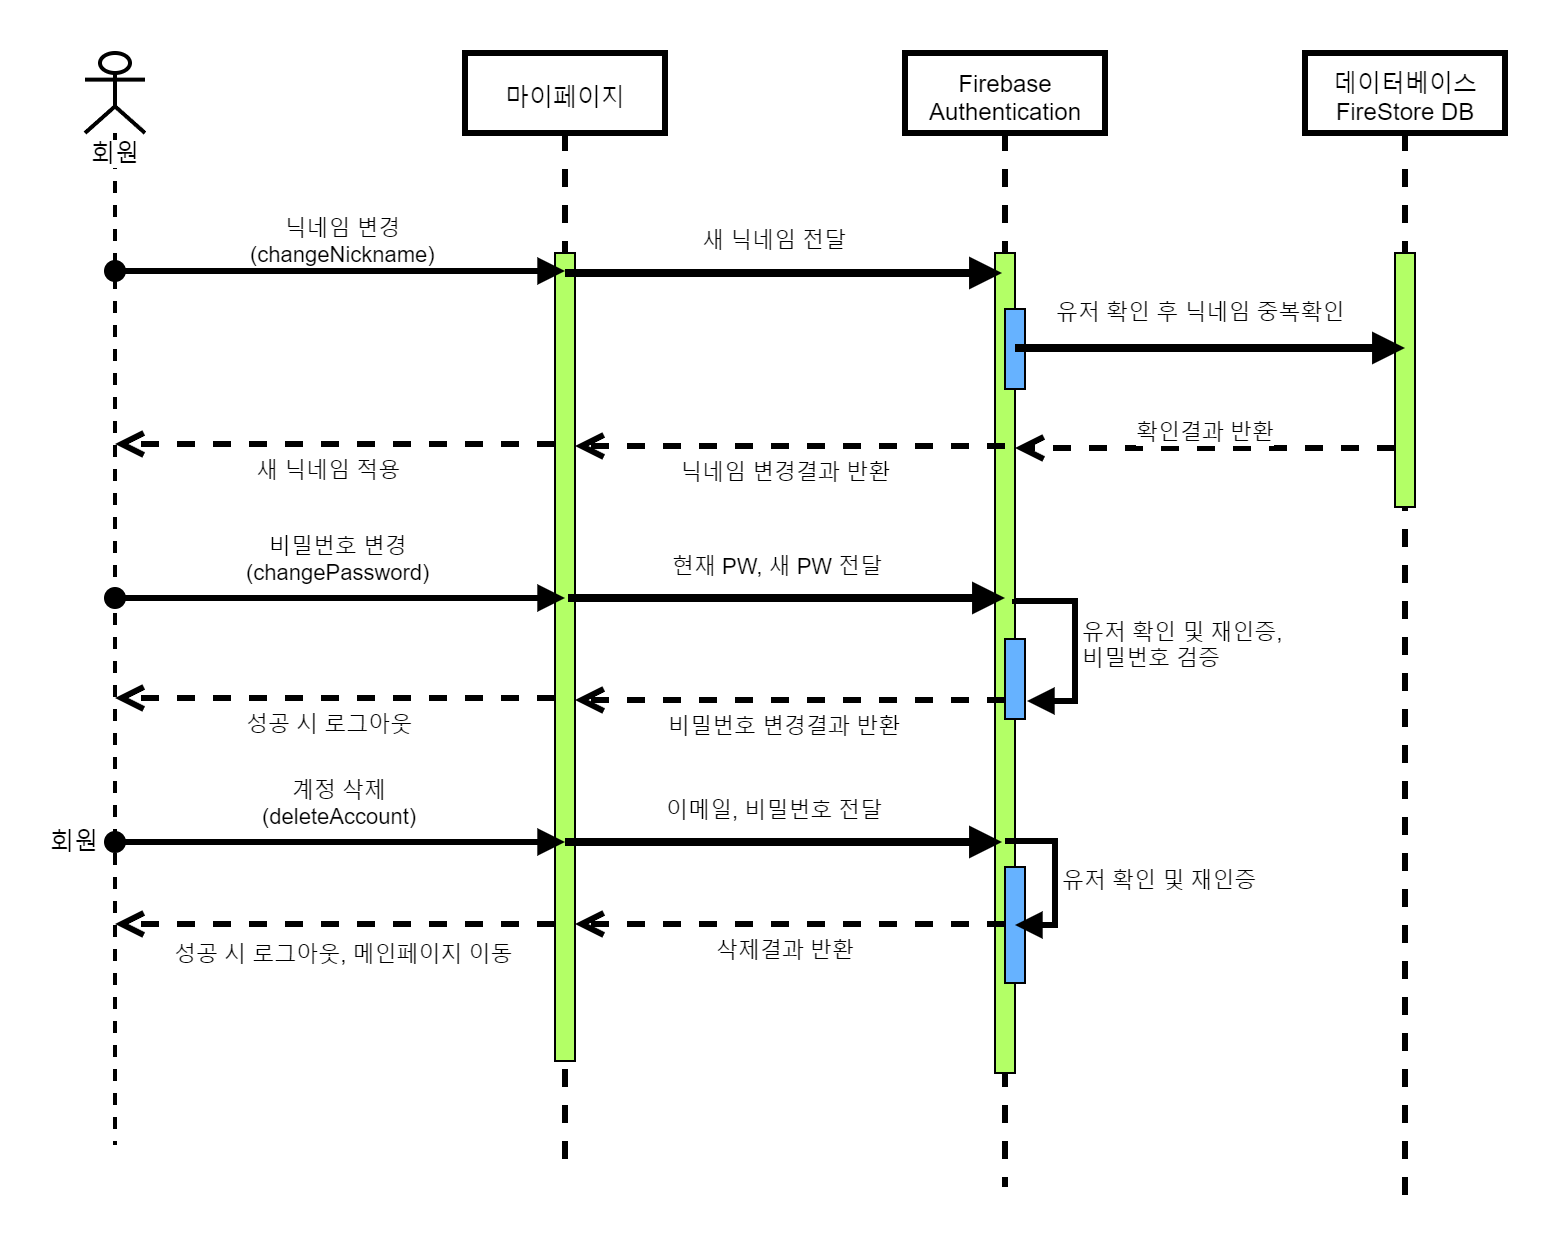
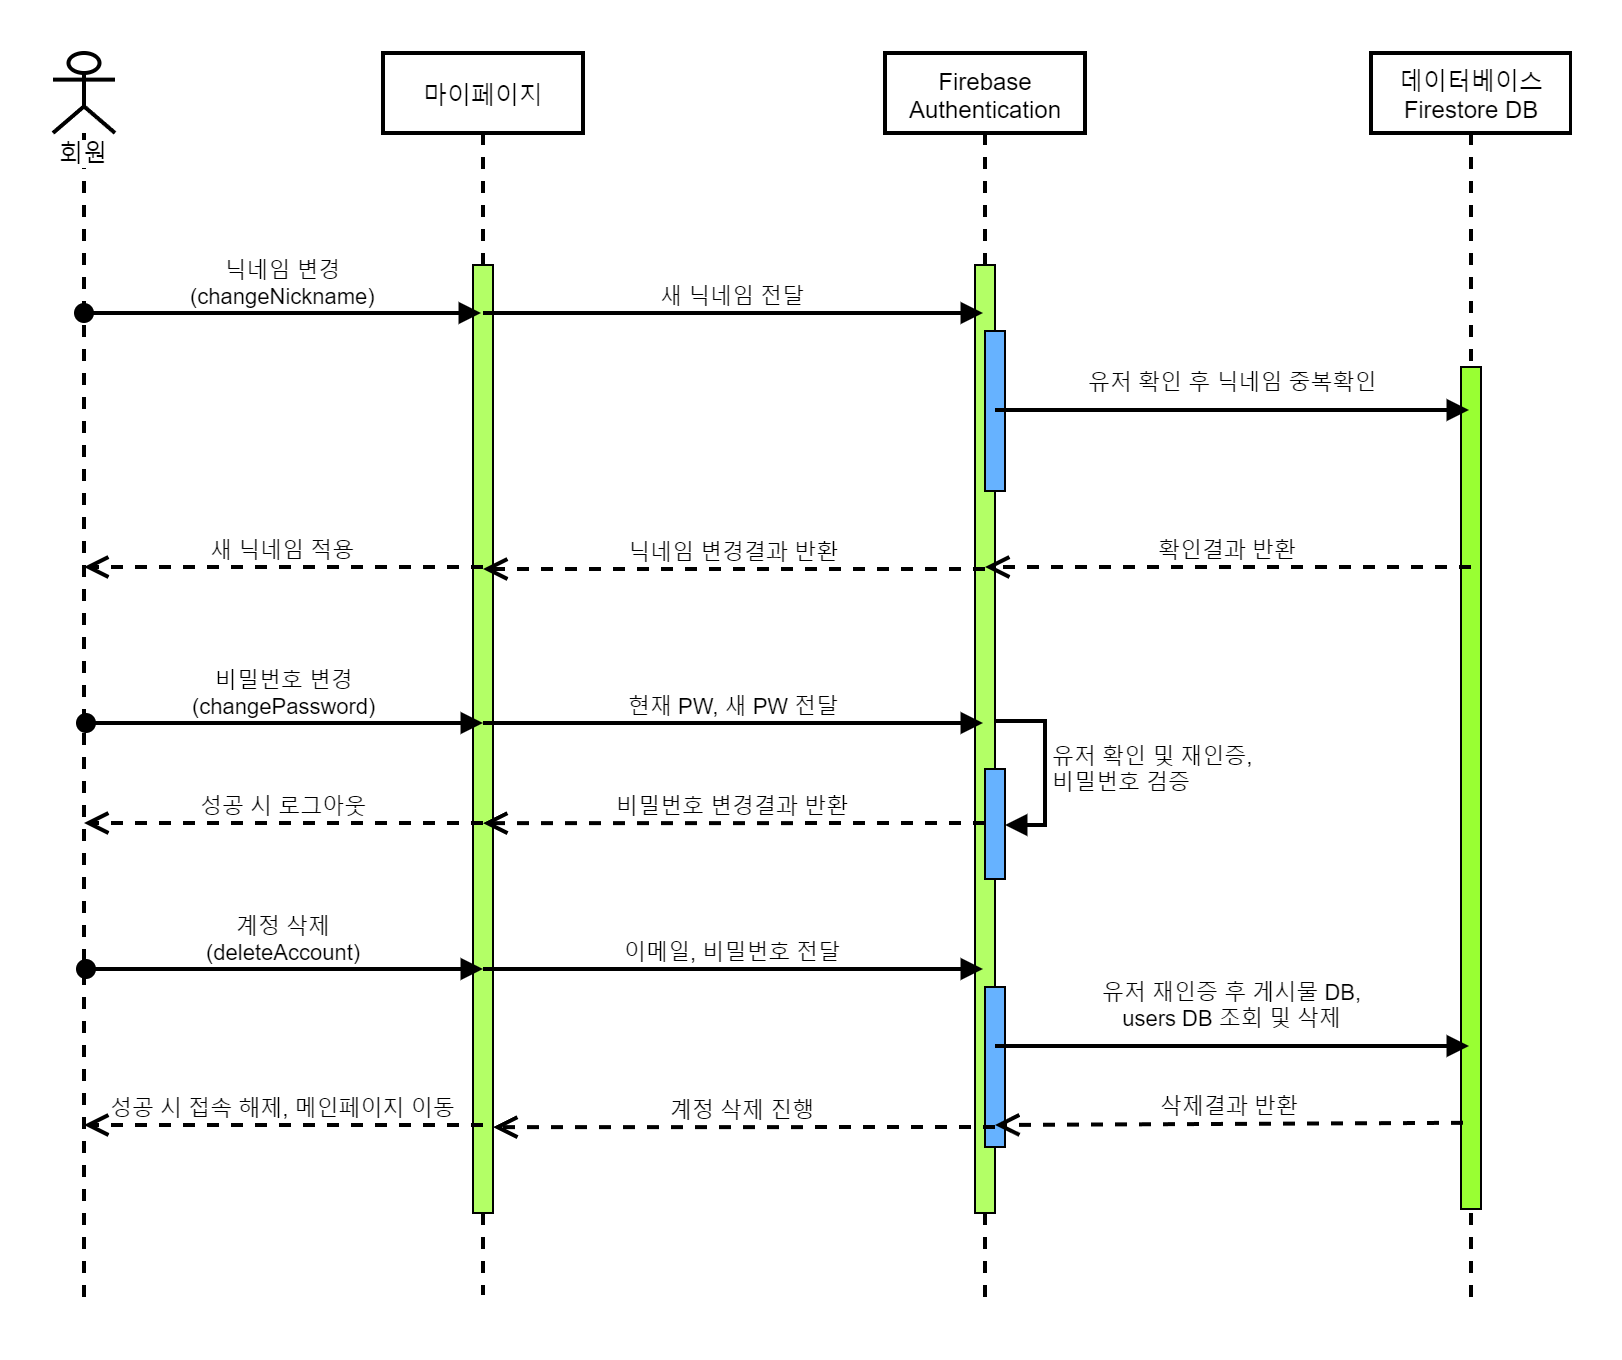
README 보완, 계정삭제시 게시글 삭제 및 users 컬렉션 내 유저자료 삭제로직 추가

diff --git a/src/components/mypage/deleteAccount.tsx b/src/components/mypage/deleteAccount.tsx
@@ -1,4 +1,4 @@
-import { auth } from "@/firebase";
+import { auth, db, storage } from "@/firebase";
 import { Button } from "../ui/button";
 import { Card, CardContent, CardDescription, CardHeader, CardTitle } from "../ui/card";
 import { Input } from "../ui/input";
@@ -8,6 +8,8 @@ import { useNavigate } from "react-router-dom";
 import { useState } from "react";
 import { EmailAuthProvider, deleteUser, reauthenticateWithCredential } from "firebase/auth";
 import { Error } from "../styleShare";
+import { collection, deleteDoc, getDocs, query, where } from "firebase/firestore";
+import { deleteObject, ref } from "firebase/storage";
 
 // 계정 삭제 컴포넌트
 const DeleteAccount = () => {
@@ -38,13 +40,33 @@ const DeleteAccount = () => {
       return;
     };
 
+    // 삭제 예정인 계정으로 올린 게시글 조회 (게시글이 여러 개일 수 있으므로 getDocs 사용)
+    const userDocSnapshot = await getDocs(query(collection(db, "panstalk"), where("userName", "==", user.displayName)));
+    const userDoc = userDocSnapshot.docs;
+
+    // DB의 users 컬렉션에서 계정 조회
+    const userSnapshot = await getDocs(query(collection(db, "users"), where("nickName", "==", user.displayName)));
+    const userDataDoc = userSnapshot.docs[0];
+
     try {
       setLoading(true);
       // 이메일과 비밀번호로 인증 정보 생성
       const credential = EmailAuthProvider.credential(email, password);
       // 생성된 인증 정보로 사용자 재인증
       await reauthenticateWithCredential(user, credential);
-
+      // 유저가 올린 게시물 삭제
+      for (let doc of userDoc) {
+        // 사진 삭제
+        const data = doc.data();
+        if (data.photo) {
+          const photoRef = ref(storage, `panstalk/${user.uid}/${doc.id}`);
+          await deleteObject(photoRef);
+        };
+        await deleteDoc(doc.ref);
+      };
+      // DB의 users 컬렉션에서 해당 유저 삭제
+      await deleteDoc(userDataDoc.ref);
+      // 계정 삭제
       await deleteUser(user);
       alert("계정이 삭제되었습니다. 이용해주셔서 감사합니다.");
       setEmail("");

diff --git a/src/components/mypage/changeNickname.tsx b/src/components/mypage/changeNickname.tsx
@@ -6,7 +6,7 @@ import { Label } from "../ui/label";
 import { TabsContent } from "../ui/tabs";
 import { useNavigate } from "react-router-dom";
 import { useState } from "react";
-import { collection, getDocs, query, updateDoc, where } from "firebase/firestore";
+import { collection, doc, getDocs, query, updateDoc, where } from "firebase/firestore";
 import { updateProfile } from "firebase/auth";
 import { Error } from "../styleShare";
 

diff --git a/README.md b/README.md
@@ -10,7 +10,7 @@
   ![](https://img.shields.io/badge/React-61DAFB?style=flat-square&logo=React&logoColor=white) 
   ![](https://img.shields.io/badge/Typescript-3178C6?style=flat-square&logo=Typescript&logoColor=white) 
   ![](https://img.shields.io/badge/TailwindCSS-06B6D4?style=flat-square&logo=TailwindCSS&logoColor=white)
-  + 백엔드 및 DB, 호스팅:
+  + 백엔드 및 호스팅:
   ![](https://img.shields.io/badge/Firebase-FFCA28?style=flat-square&logo=Firebase&logoColor=white)
 
 ## 주요기능별 시퀀스 다이어그램
